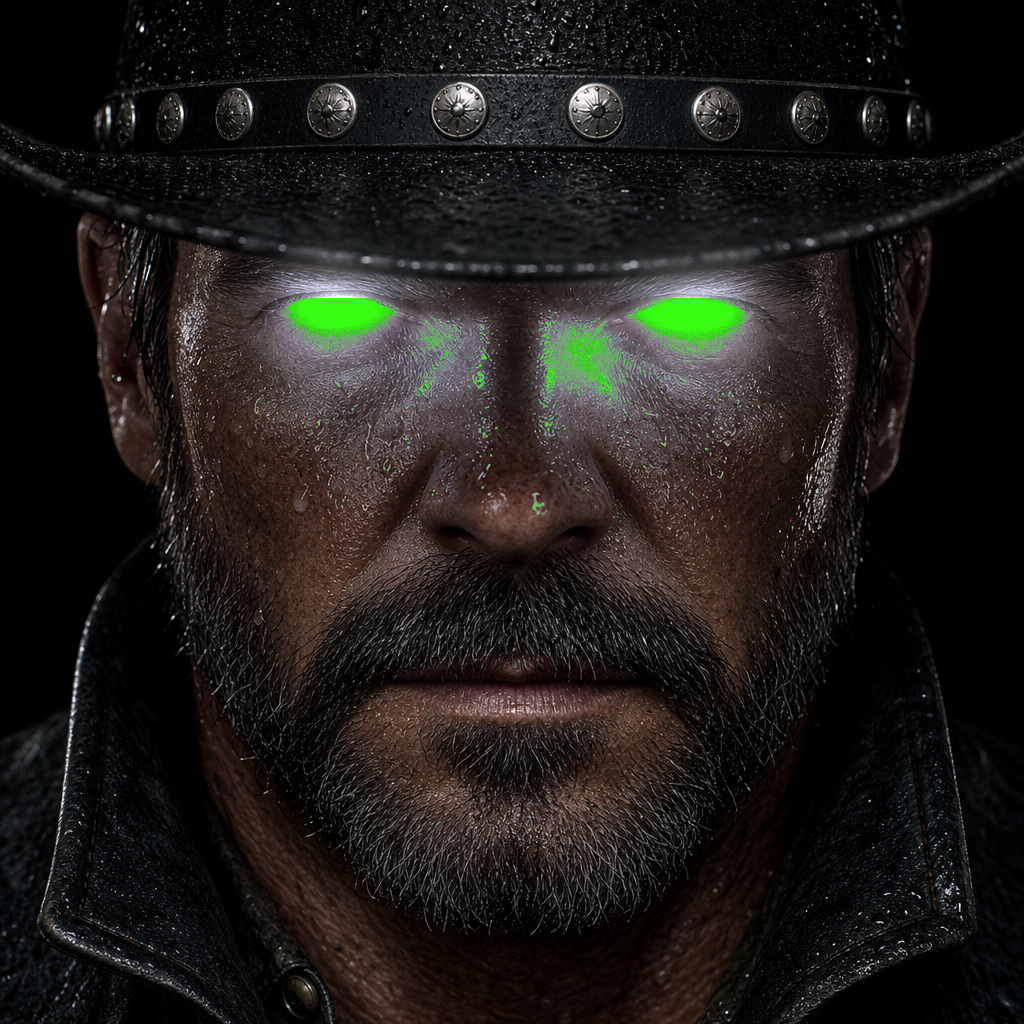
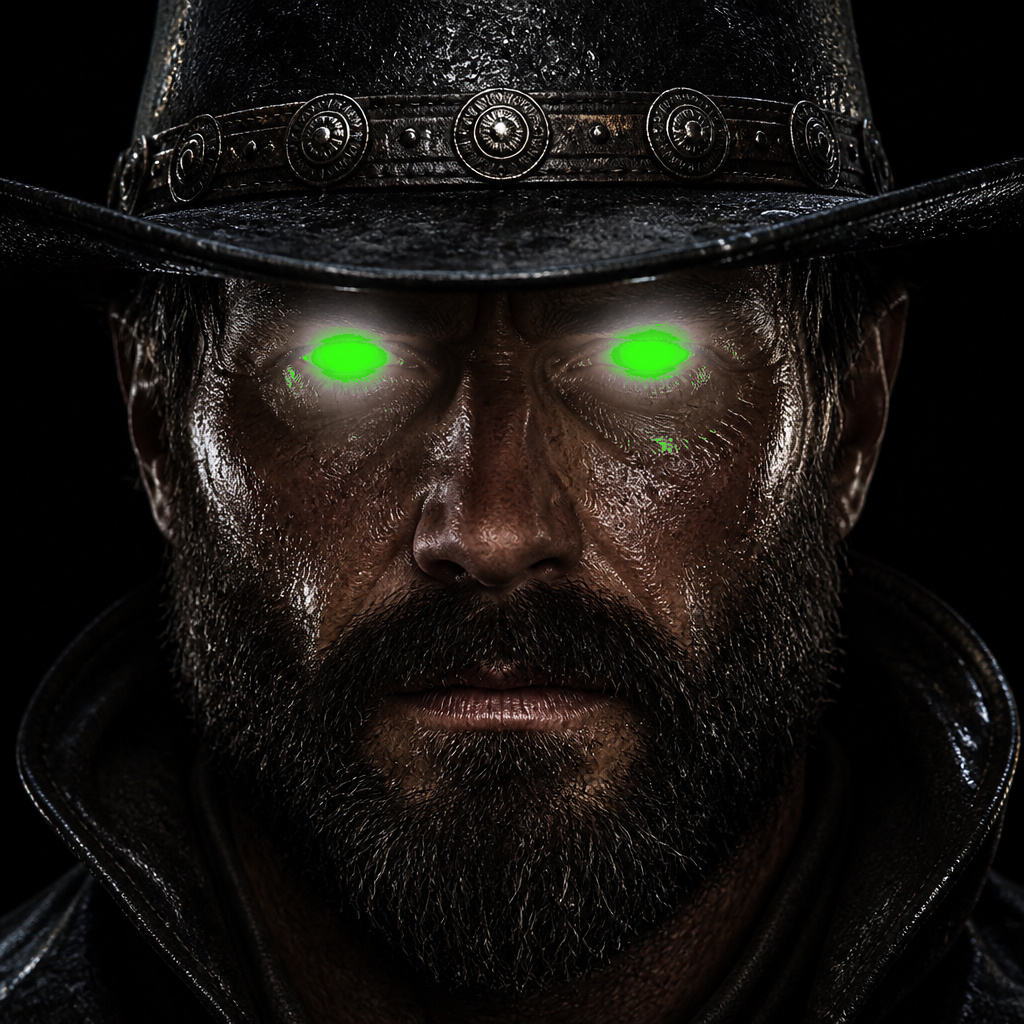
Replace Raijin WAIT with the signed square-crop cowboy.
WAIT is the face-only crop (white eyes, no city, no star). UP/DOWN tint that same face green/red. Bot PNGs match so Floor/table do not keep the old 1024 generate.

diff --git a/frontend/static/wire.js b/frontend/static/wire.js
@@ -2,6 +2,12 @@
 /* Entry shape: { id, at, title, why } — newest first. at is ISO-8601 America/Chicago. */
 window.COUNCIL_WIRE = [
   {
+    "id": "2026-08-15-raijin-signed-crop",
+    "at": "2026-08-16T00:10:00-05:00",
+    "title": "Cowboy WAIT is the signed square-crop",
+    "why": "Cowboy WAIT is the signed square-crop (not the 1024 generate). UP/DOWN tint that same face."
+  },
+  {
     "id": "2026-08-15-login-splash",
     "at": "2026-08-15T23:55:00-05:00",
     "title": "Login splash is the signed council table",

diff --git a/backend/tests/test_desk_wire.py b/backend/tests/test_desk_wire.py
@@ -102,6 +102,10 @@ class WireLogTests(unittest.TestCase):
         self.assertNotIn("KX", blob)
         self.assertNotIn("ZT ·", blob)
         self.assertNotIn("Changelog", blob)
+        self.assertIn("2026-08-15-raijin-signed-crop", blob)
+        self.assertIn("Cowboy WAIT is the signed square-crop", blob)
+        self.assertIn("not the 1024 generate", blob)
+        self.assertIn("UP/DOWN tint that same face", blob)
         self.assertIn("2026-08-15-login-splash", blob)
         self.assertIn("Login splash is the signed council table", blob)
         self.assertIn("dark stone + amber/cyan", blob)
